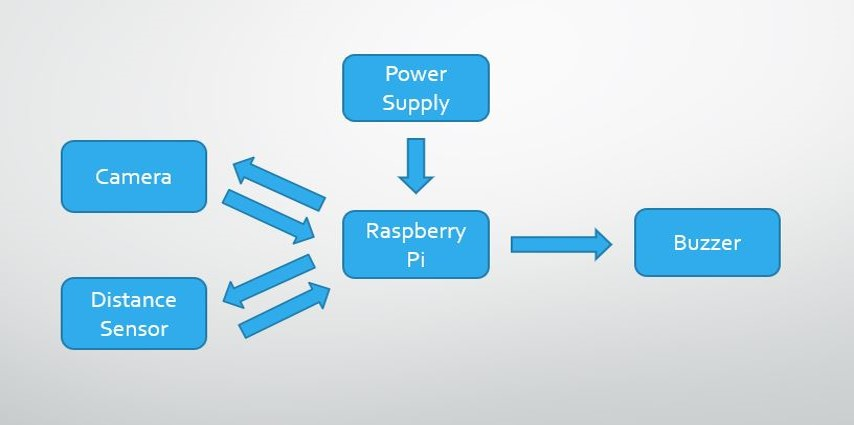
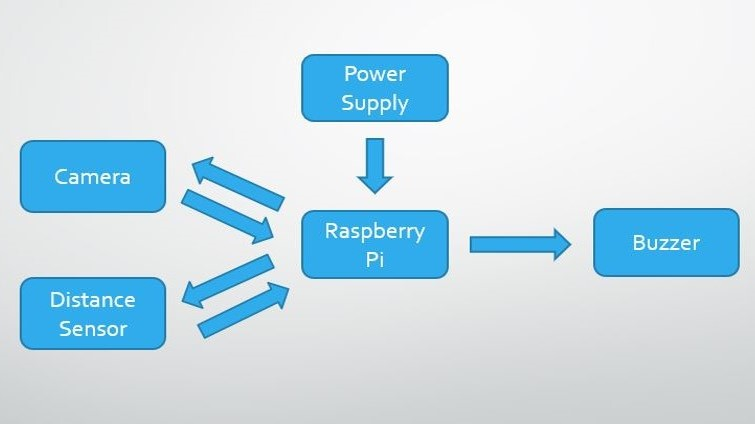
alters aspect ratio of images on bike alert page

Changed region(s): [[0.0, 0.3066, 1.0, 0.8278], [0.396, 0.1226, 0.6093, 0.3066], [0.457, 0.3066, 0.5179, 0.4599]]

diff --git a/_projects/2bike-alert.md b/_projects/2bike-alert.md
@@ -18,7 +18,7 @@ We spent the first week determining the major components of the project. During 
     <img src='/images/bike-alert-block-diagram.jpg' alt='diagram showing system interconnections' style='width:100%'>
   </div>
   <div class='two-images'>
-    <img src='/images/bike-alert-disassembled.png' alt='gray open box with mess of wires and electronics inside' style='width:100%'>
+    <img src='/images/bike-alert-disassembled.jpg' alt='gray open box with mess of wires and electronics inside' style='width:100%'>
   </div>
 </div>
 <br/>
